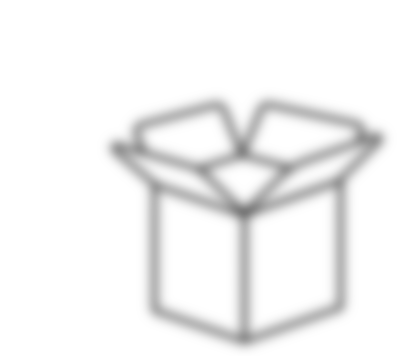
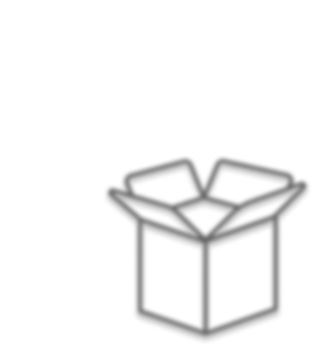
123
123

Changed region(s): [[0.2571, 0.2586, 1.0, 0.977]]

diff --git a/css/styles.css b/css/styles.css
@@ -273,7 +273,7 @@ h3{
 }
 
 .about2{
-    background-color: #fbf8f8;
+    background-color: #f4f4f4;
     border-radius: 5px;
     margin: 0 auto;
     padding: 15px;
@@ -343,6 +343,10 @@ h3{
     }
 } 
 
+#services h1{
+    font-size: 35px;
+}
+
 .block-serv {
     display: flex;
     flex-wrap: wrap;
@@ -368,7 +372,7 @@ h3{
 }
 
 /* Медиа-запрос для устройств с шириной экрана меньше 768px (например, мобильные устройства) */
-@media (max-width: 768px) {
+@media (max-width: 1290px) {
     .item-serv {
         width: 100%; /* Один элемент в ряд на узком экране */
         margin-right: 0; /* Убираем отступ справа на узком экране */
@@ -377,77 +381,31 @@ h3{
 
 
 .box{
-    background: #f3f3f3 url(../box.png);
+    background: #f4f4f4 url(../box.png);
     background-size:200px ;
-    background-position: right top; /* Устанавливаем фоновое изображение справа */
+    background-position: right bottom; /* Устанавливаем фоновое изображение справа */
     background-repeat: no-repeat; /* Отключаем повторение фонового изображения */
 }
 
 .equ{
-    background: #f3f3f3 url(../equ.png);
+    background: #f4f4f4 url(../equ.png);
     background-size:200px ;
-    background-position: right ; /* Устанавливаем фоновое изображение справа */
+    background-position: right bottom; /* Устанавливаем фоновое изображение справа */
     background-repeat: no-repeat; /* Отключаем повторение фонового изображения */
 
 }
+.part{
+    background: #f4f4f4 url(../part.png);
+    background-size:200px ;
+    background-position: right bottom; /* Устанавливаем фоновое изображение справа */
+    background-repeat: no-repeat; /* Отключаем повторение фонового изображения */
 
+}
 
 
 
 /*Advant
 ============================*/
-#plus {
-    background: #f0f0f0;
-    border-radius: 5px;
-    margin-left: 1%;
-    width: 98%;
-    padding-bottom: 5vh;
-    padding-top: 5vh;
-    display: flex;
-    justify-content: center;
-}
-
-#plus i{
-    color: #000000;
-    margin-top: 2vh;
-    margin-left: 0;
-}
-
-
-#plus h4{
-    color: #000000;
-    font-size: 25px;
-}
-
-.plus-item {
-    margin: 0 auto;
-    text-align: center;
-    width: 40%;
-}
-
-.plus-item h4 {
-    margin-top: 10px;
-    font-family: "Roboto Condensed", sans-serif;
-    font-weight: 400;
-}
-
-@media (max-width: 1000px) {
-    #plus {
-        display: block;
-        border-radius: 5px;
-        margin-left: 1%;
-        width: 93%;
-        margin: 0 auto;
-    }
-
-    #plus h4{
-        margin-bottom: 2vh;
-    }
-}
-
-
-
-
 
 
 

diff --git a/index.html b/index.html
@@ -171,14 +171,13 @@
                     <h3>Мы найдем завод который выдаст вам гарантию </h3>
                 </div>
 
-                <div class="item-serv">
-                    <i class="fa-solid fa-3"></i>
-                    <h3>Фото и видеоотчеты об упаковке и товаре обеспечат контроль перед отправкой </h3>
+                <div class="item-serv part">
+                    <h1>Детали</h1>
+                    <h3>Мы найдем завод который производит оригинальные детали на ваш станок</h3>
                 </div>
 
-
             </div>
-    </div>
+        </div>
 </section>
 
 

diff --git a/css/form.css b/css/form.css
@@ -21,7 +21,7 @@
     .req-img {
         margin-left: -60% !important;
         margin-bottom: -70px !important;
-        width: 165px !important;
+        width: 140px !important;
     }
     
 }
